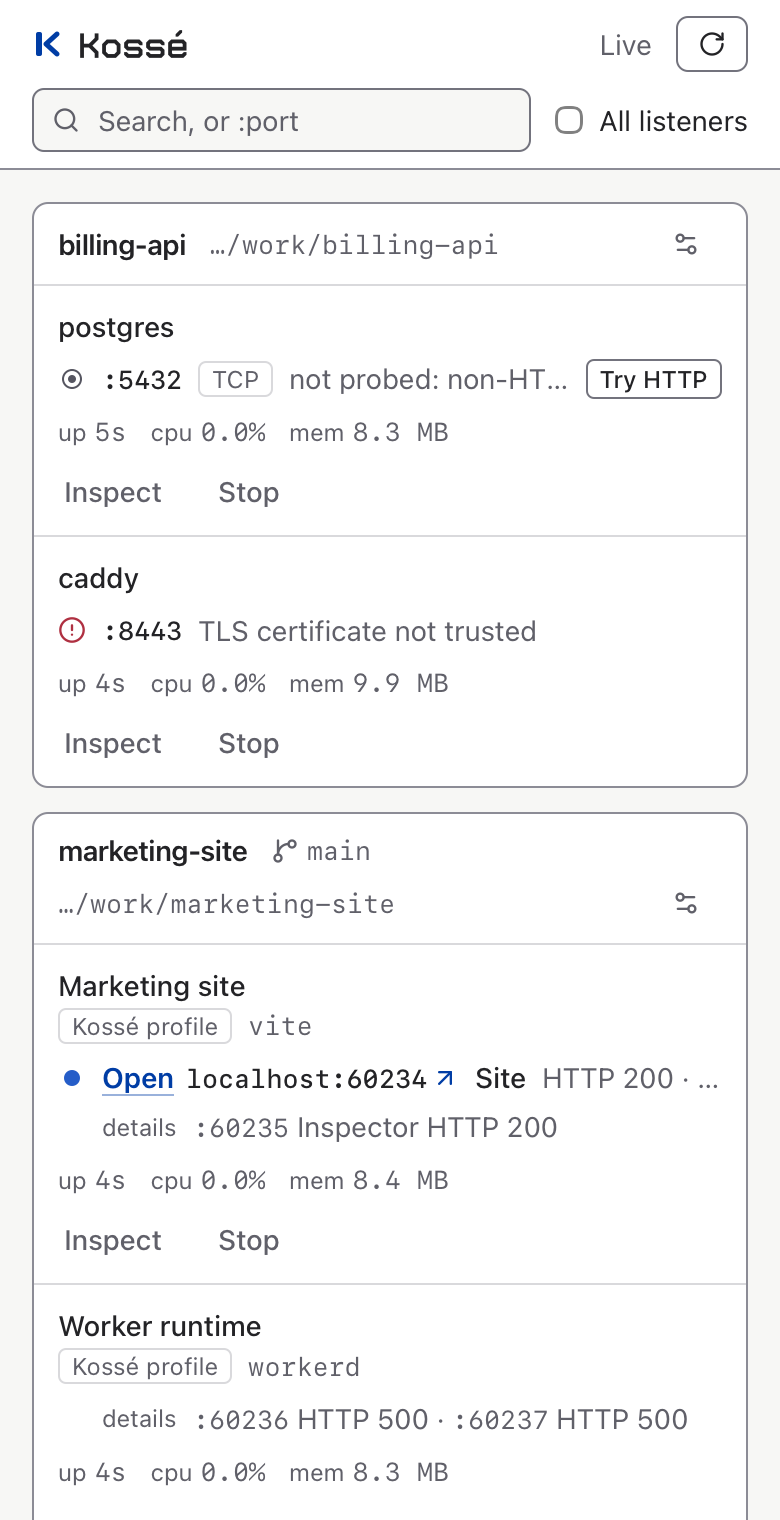
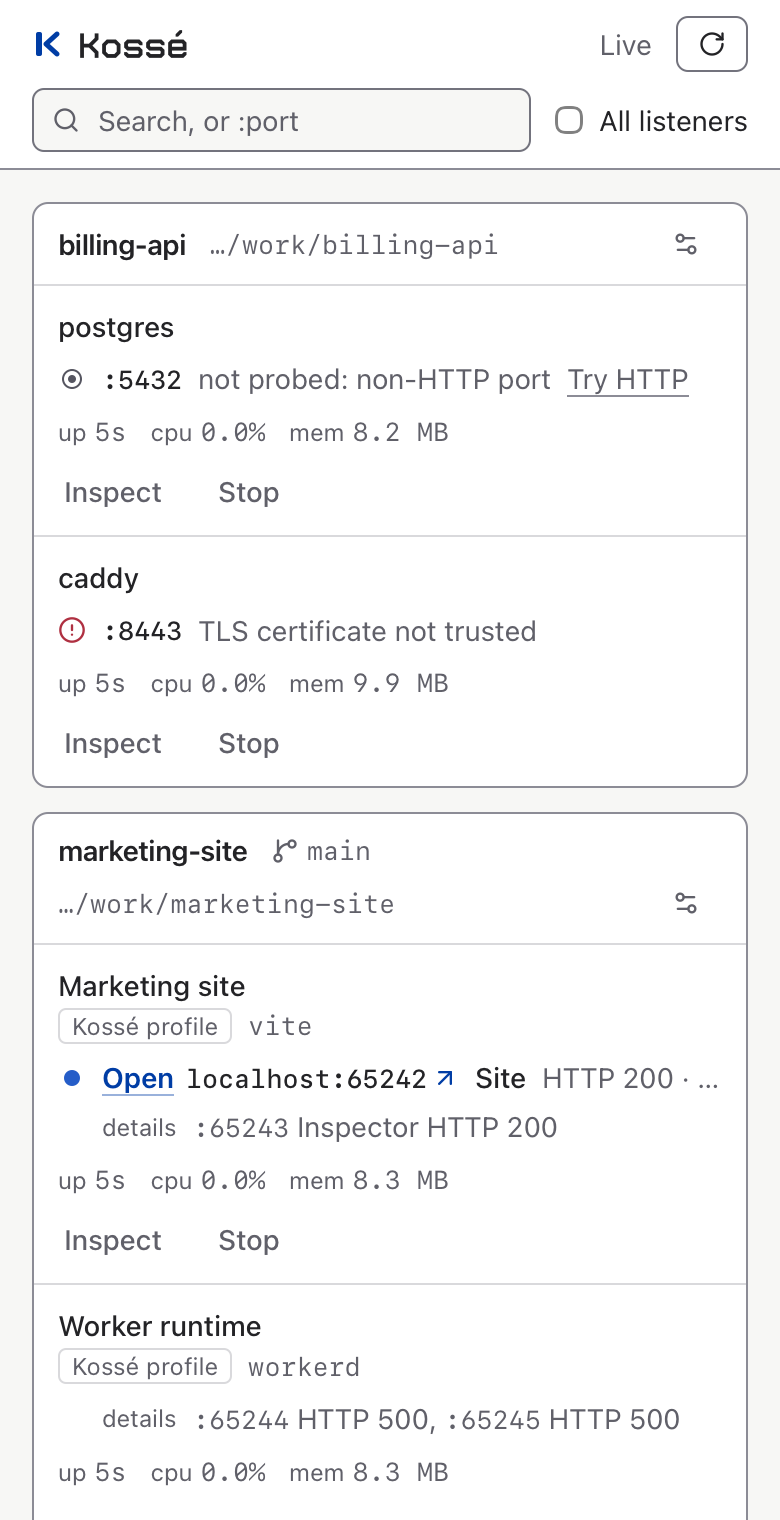
docs: changelog, evidence and screenshots for the hierarchy review fixes

diff --git a/docs/evidence/ui-hierarchy.md b/docs/evidence/ui-hierarchy.md
@@ -1,6 +1,6 @@
 # UI pass: what to open, what is secondary, what is not web
 
-Recorded 2026-10-30 on macOS, Apple silicon, on branch `dashboard-hierarchy` (cut from `endpoint-roles`, S21). Dashboard-only: no Rust, contract or tray change.
+Recorded 2026-10-30 on macOS, Apple silicon, on branch `dashboard-hierarchy` (rebased onto `main` after S21 merged). Dashboard-only: no Rust, contract or tray change.
 
 ## The problem, from the user's goal
 
@@ -10,17 +10,19 @@ The owner: "I'm having a hard time seeing what is the main url to check vs less 
 
 Per service row, three tiers, all from observed facts and declared display tiers only:
 
-1. **The open target.** Among the service's summary endpoints that answered HTTP (the launch targets of `Service::launch_endpoints`, the same set the tray and `kosse url` choose from), one is drawn first and strongest: the accent `Open` label with the full `localhost:<port>` in ink mono and the arrow, at the start of the endpoint column, so it sits at the same x on every row. When several answered, the one that served a page (a response with a title) comes first, then a status below 400, then the lowest port. This is ordering and emphasis only: every answering summary endpoint keeps its own Open, nothing is labelled "main", and the tray and CLI keep their meaning (several answering endpoints remain several Open items, and `kosse url` stays ambiguous).
-2. **Other summary endpoints.** One line each, below the target: marker, `:port`, name, HTTP status without the page title (the title is on the target and in Inspect), a quiet `Open` link when it answered, Try HTTP when allowed. A failure on a summary endpoint keeps the failed marker: it is a launch target.
-3. **Details endpoints** stay on the one muted `details` line (S21), never with a marker, an Open or the failed marker.
+1. **The open target.** Among the service's summary endpoints that answered HTTP (the launch targets of `Service::launch_endpoints`, the same set the tray and `kosse url` choose from), one is drawn first and strongest: the accent `Open` label with the full `localhost:<port>` in ink mono and the arrow, at the start of the endpoint column, so it sits at the same x on every row. When several answered (automatically or on Try HTTP, HTTP or HTTPS alike), a status below 400 with a page title comes first, then a status below 400, then a title, then any response; the lowest port breaks ties. A titled 404 page never beats an untitled 200. When nothing better answered, the target is a 4xx or 5xx and its status stays on the line. This is ordering and emphasis only: every answering summary endpoint keeps its own Open, nothing is labelled "main", and the tray and CLI keep their meaning (several answering endpoints remain several Open items, and `kosse url` stays ambiguous).
+2. **Other summary endpoints.** One line each, below the target: marker, `:port`, name, HTTP status without the page title (the title is on the target and in Inspect), a quiet `Open ↗` when it answered (no host; its accessible name is `Open localhost:<port>`), Try HTTP when allowed. A failure on a summary endpoint keeps the failed marker: it is a launch target.
+3. **Details endpoints** stay on the one muted `details` line (S21), never with a marker, an Open or the failed marker; endpoints are separated by commas, since `·` separates a status from its title.
 
-The kind cue is a quiet `TCP` tag on an endpoint that is known not to speak HTTP: skipped as a known non-HTTP port or process, or probed and found not HTTP. Every endpoint is TCP (`Endpoint.protocol`), so the tag is a fact; it is shown only where HTTP is ruled out, so it reads as "not web" without naming a guess such as "database". Unchecked or failed endpoints get no tag (unknown stays unknown).
+The kind cue is a quiet `TCP` tag, shown only after a probe got an answer that is not HTTP (automatic or on Try HTTP). A known non-HTTP port or process name is a convention, not an observation: it keeps its "not probed: non-HTTP port/server" text and gets no tag. Every endpoint is TCP (`Endpoint.protocol`), so the tag is a fact that reads as "not web" without naming a guess such as "database". Unchecked or failed endpoints get no tag (unknown stays unknown). Try HTTP is a quiet underlined text button, so an offer never outweighs what was observed.
 
 A declared link whose URL equals the URL of an endpoint that already offers Open is not repeated on the row; Inspect lists every declared link with its provenance. Declared links to other URLs stay as before.
 
-Metrics and actions recede: metric values in `ink-muted`, Inspect, Stop and Customize as muted, borderless text at rest (hover brings back the border, hover and keyboard focus bring back Stop's `danger` text). The accent on the row is then only the open target.
+Metrics and actions recede: metric values in `ink-muted`, Inspect, Stop and Customize as muted, borderless text at rest (hover brings back the border; hover and keyboard focus bring back Stop's `danger` text). The accent on the row is then only the open target.
 
-No project-level "main URL": no observed fact makes one service of a project its entry point, and the tray has no such item.
+No project-level "main URL": no observed fact makes one service of a project its entry point, and the tray has no such item. When two services serve the same app (an unconfigured Wrangler and its workerd both answer), the fix is a profile (`otherEndpoints: details`, `match.process`), which the prompt-first Customize window helps set up.
+
+Trade-off: at rest Stop looks like Inspect, so it never outweighs the open target. The confirmation dialog, not the row's colour, is the safety cue; hover and keyboard focus restore Stop's red.
 
 Unchanged: the Shape Rule markers, honesty wording (any status is reachable HTTP; failures say what happened), keyboard row focus, the narrow stacked layout, light and dark, reduced motion, `safeLink` for every href (`OutLink`), no inline style.
 
@@ -60,3 +62,23 @@ Real AppKit clicks: Open on the marketing site's target handed `http://localhost
 - Hover colours of the row actions were read from the classes, not seen: `bun run app -- click` does not hover.
 - The owner's own Wrangler stack (not a fixture) was not probed by the debug app (`outsideTestScope`), so its after-state is inferred from the fixture equivalents: a page on one port outranks a 404 or 500 on another.
 - The tray was not touched and not re-checked on the desktop; its Open items are unchanged in code.
+
+## Review round 1
+
+Fixes after two reviews, as new commits on the rebased branch:
+
+- Ranking: status before title (above). Unit cases added: a titled 404 vs an untitled 200 (the 200 wins; the old ranking picked the 404), two titled 200s (the lowest port), a Try HTTP response that becomes the target over a skipped port, and HTTPS vs HTTP at equal rank (the lowest port; the scheme does not count).
+- `TCP` only after a non-HTTP answer: `knownNonHttpPort` / `knownNonHttpProcess` no longer get it (unit test); Playwright asserts postgres has no tag until Try HTTP gets `not HTTP (on request)`, then has it. Try HTTP is a quiet text button.
+- Quiet Open: `Open ↗` with a `line` underline at rest; Playwright asserts the accessible name `Open localhost:<port>` and its href. Real window: the quiet Open on the API's second port reads `Open localhost:3001` and a real click handed `http://localhost:3001/` to the captured opener.
+- Details line: comma-separated (Playwright updated).
+- Playwright `the open target carries the page title; other summary lines do not repeat it`: with both of the site's ports in the summary (the central profile edited for the test and restored), the target shows `HTTP 200 · <title>` and the other summary line shows `HTTP 200` without it.
+- `web/DESIGN.md`: Layout list nesting fixed; 4xx targets, the Stop trade-off and the no-project-lead rationale recorded. `CHANGELOG.md`: a `Changed` bullet.
+
+| Command               | Result                                                                              |
+| --------------------- | ----------------------------------------------------------------------------------- |
+| `bun run check`       | exit 0: Vitest 53/53, budget `52.98 kB of 55.00 kB`, nextest 274/274, release build |
+| `bun run test:e2e`    | 34 passed, 2 skipped (screenshot spec on Chromium)                                  |
+| `bun run test:window` | 69 passed, 0 failed (screen unlocked)                                               |
+| `bun run screenshots` | regenerated; looked at all five                                                     |
+
+Real window (`bun run app`): 1180x780 and 560x780, light and dark, filtered to the fixture world; no horizontal scroll at 560 (`scrollWidth 560 = innerWidth 560`). postgres reads `:5432 not probed: non-HTTP port Try HTTP` with no tag; a real click on Try HTTP turned it into `TCP not HTTP (on request)`; the queue worker (probed, not HTTP) carries `TCP`; workerd's details line reads `:<p1> HTTP 500, :<p2> HTTP 500`.

diff --git a/CHANGELOG.md b/CHANGELOG.md
@@ -11,6 +11,7 @@ All notable changes to Kossé are recorded here. The format follows [Keep a Chan
 
 ### Changed
 
+- Dashboard hierarchy ([evidence](docs/evidence/ui-hierarchy.md)): each service leads with one open target, the summary endpoint that answered HTTP best (a status below 400, then a page title, then the lowest port), shown as `Open localhost:<port>`. Its other summary endpoints keep a quieter `Open` without the repeated page title; metrics, Inspect, Stop and Try HTTP recede until hovered or focused. A declared link to the same URL as an Open is folded into it on the row (Inspect still lists it), and a `TCP` tag marks an endpoint only after it answered with something other than HTTP.
 - A service's `probePath` is the health path of its summary endpoints only; an endpoint's own `probePath` wins on either tier.
 - Kossé builds before this one refuse a profile that uses `match.process` (as a whole, like any profile with an unknown criterion); `endpoints` and `otherEndpoints` are kept and ignored by them.
 
